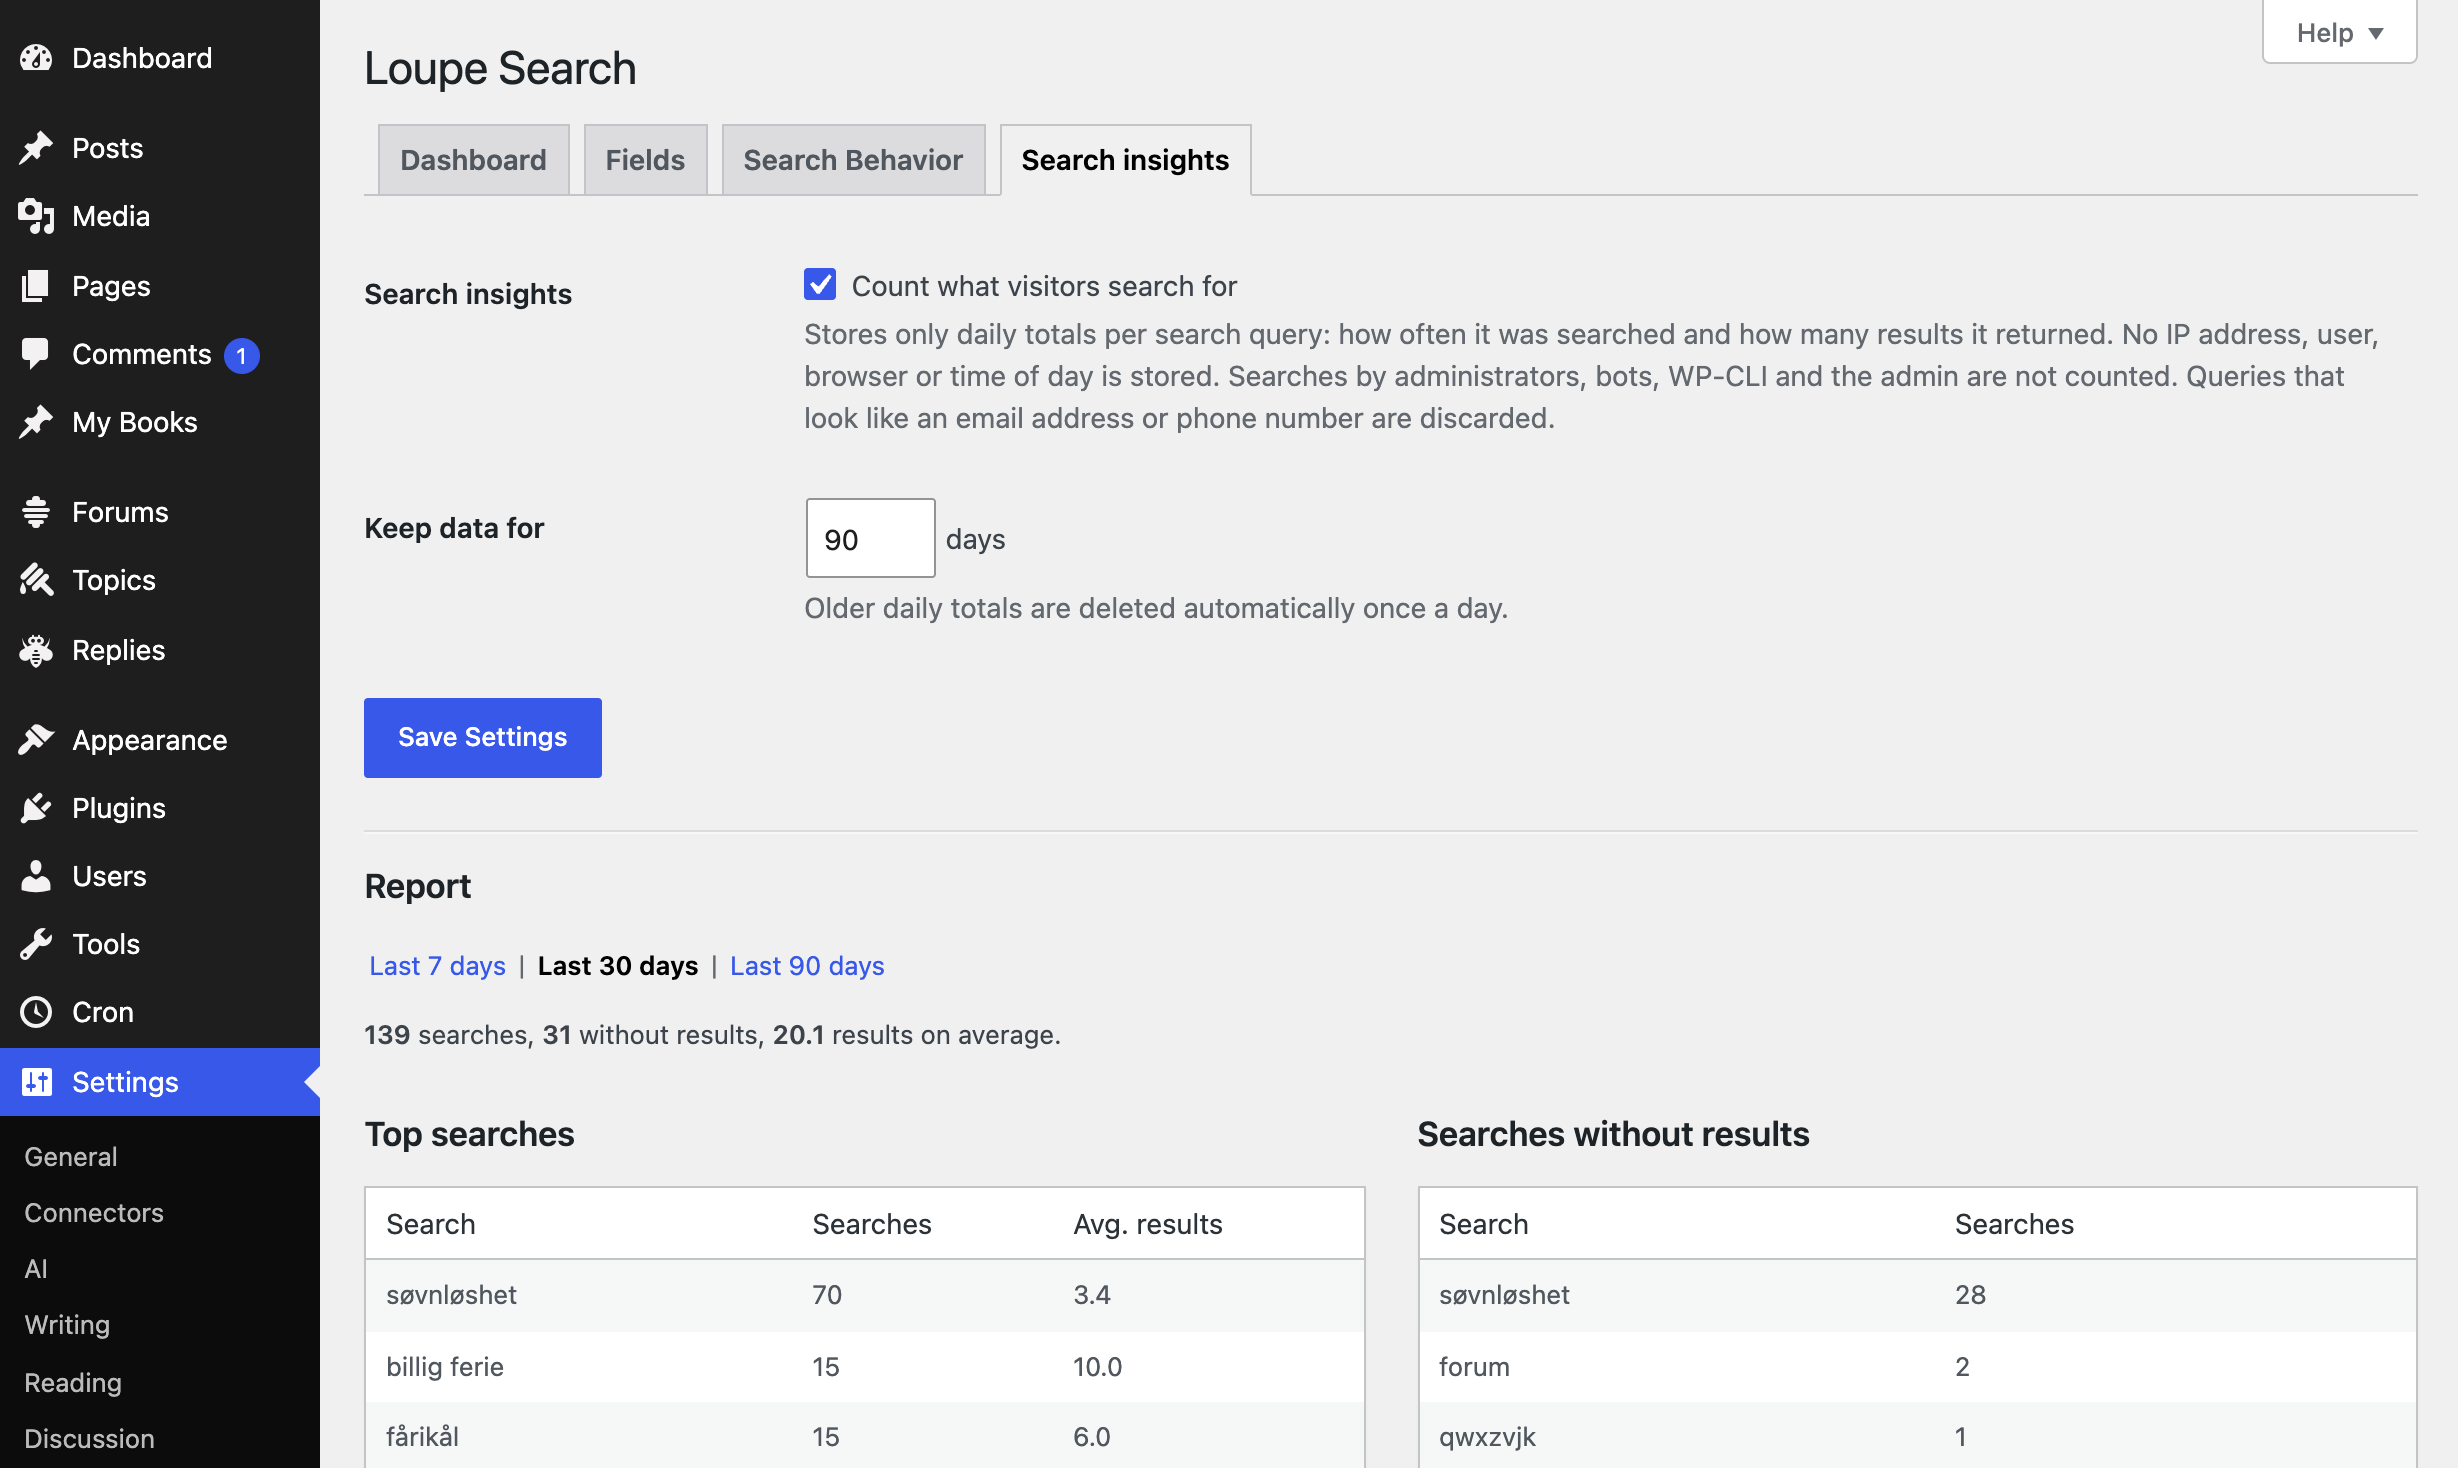
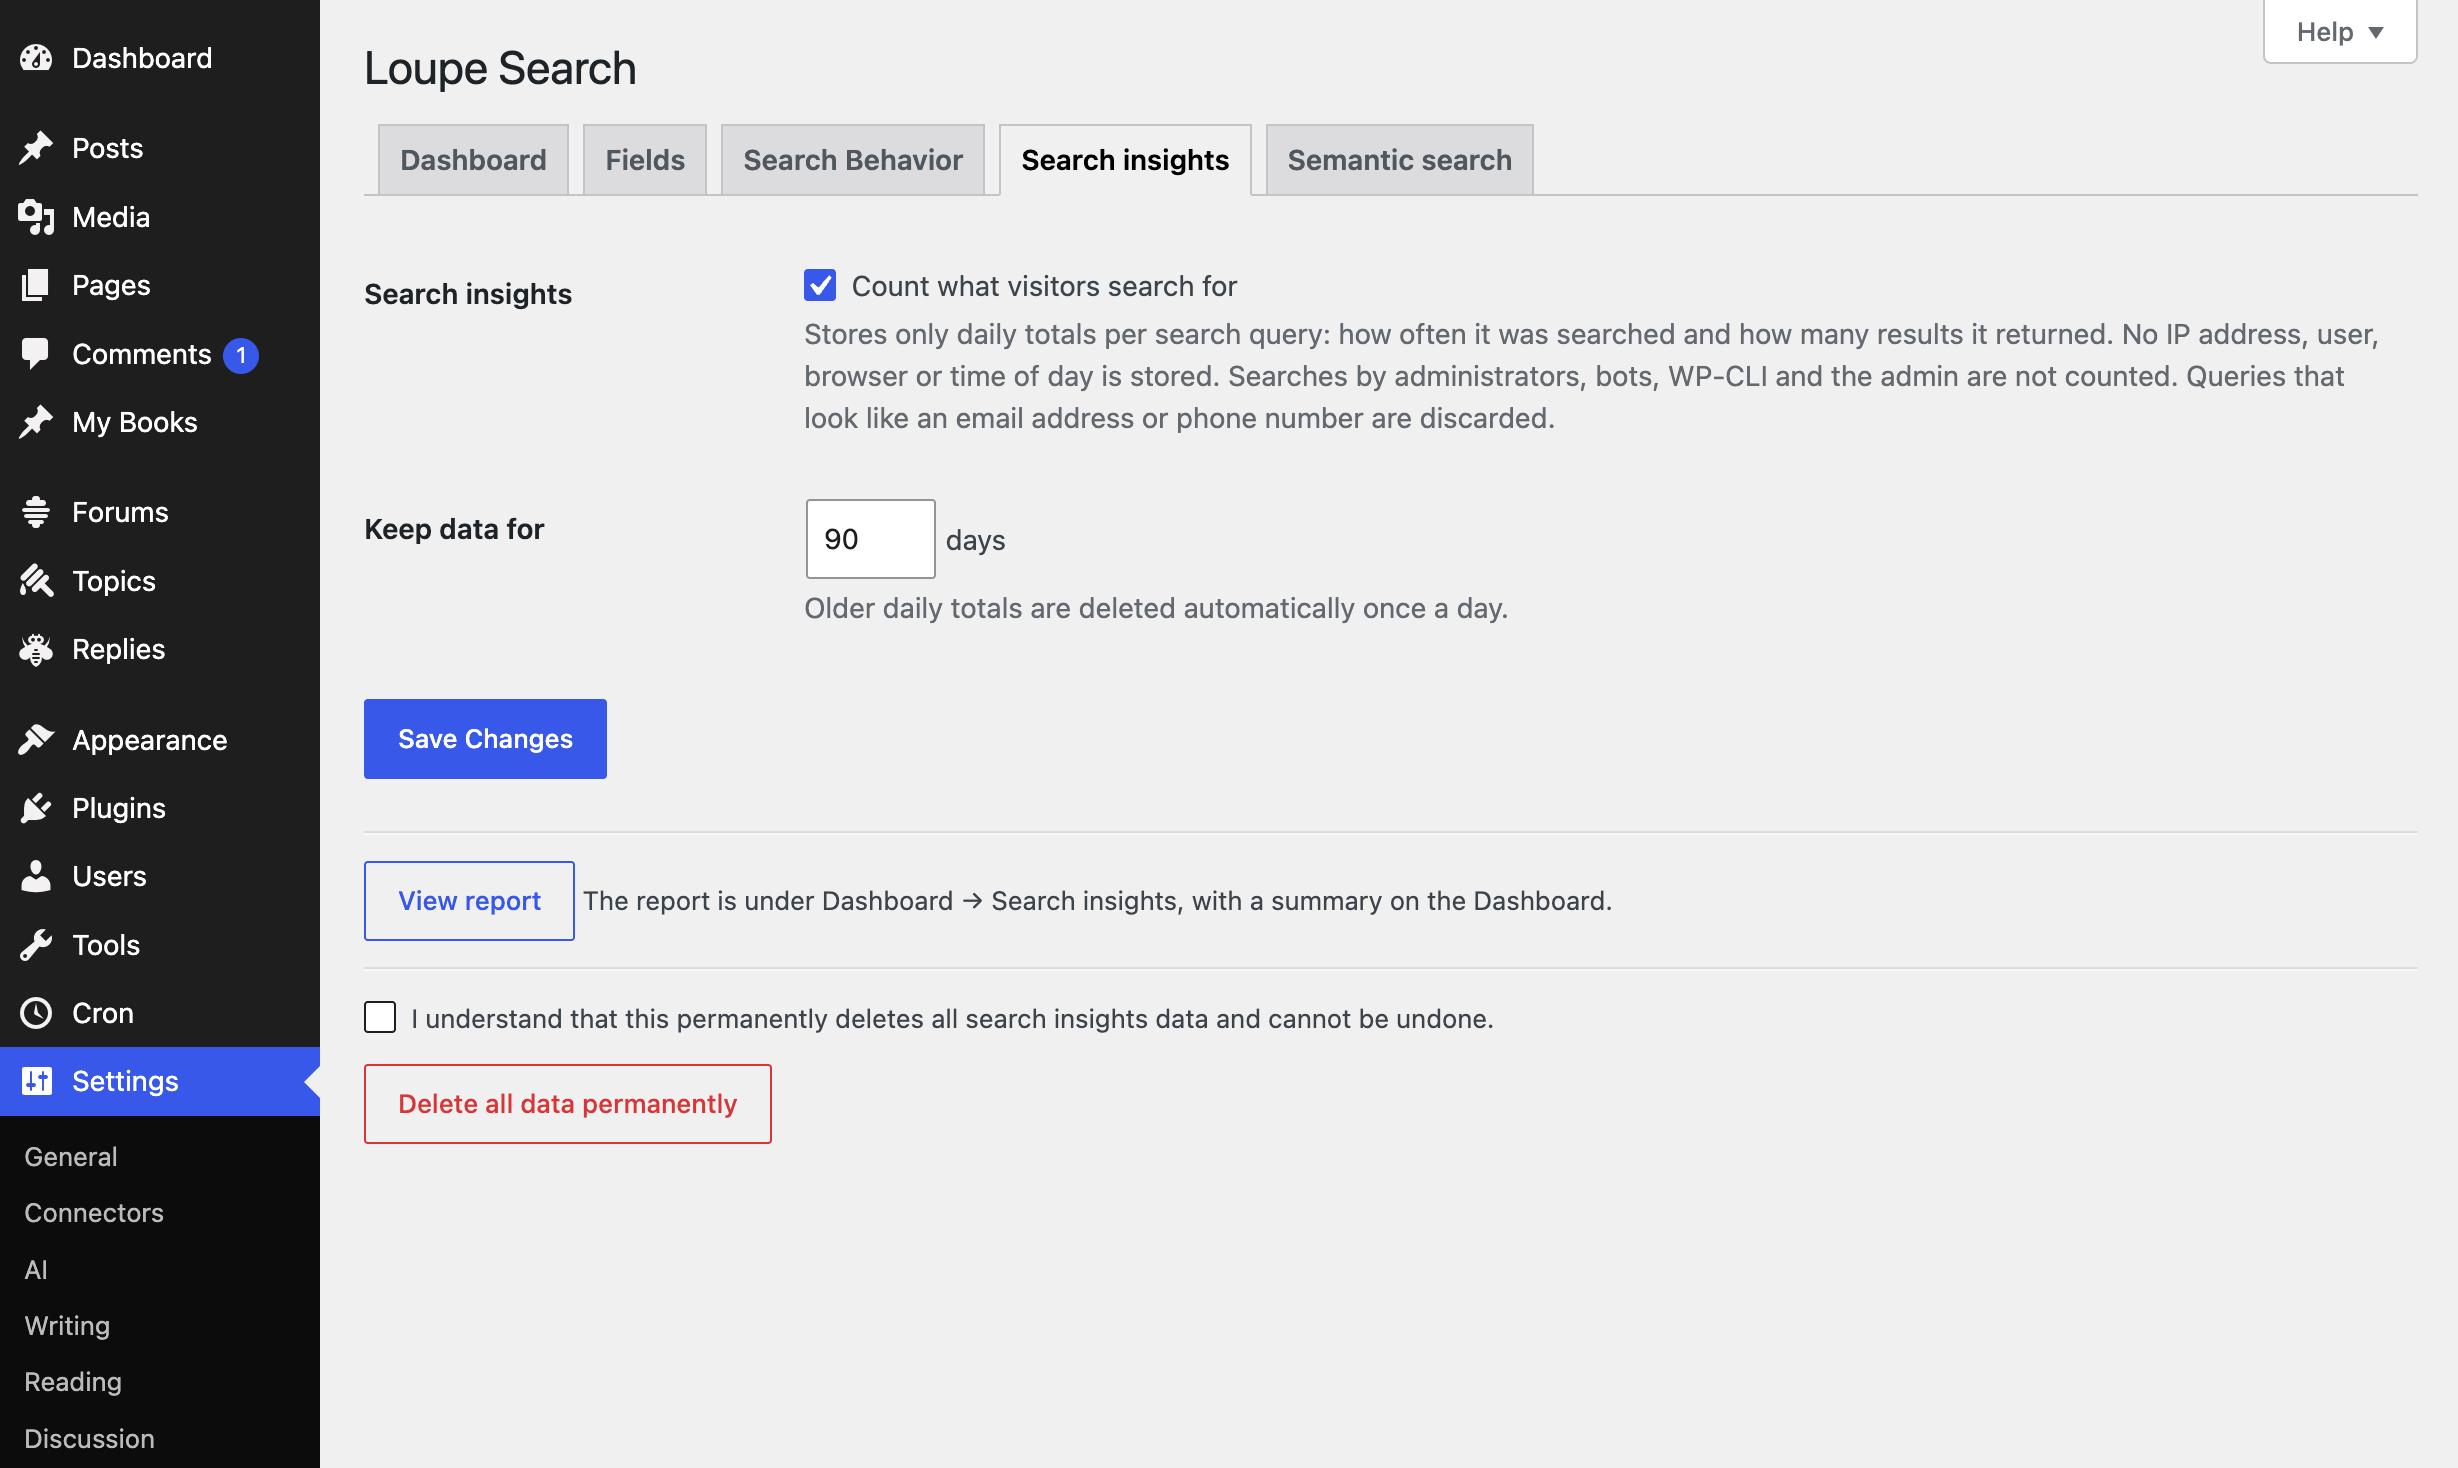
Insights: use the site date format for the custom range (1.7.3) (#94)
* Insights: use the site date format for the custom range (1.7.3)

The From/To fields were native date inputs, which always display in the
browser locale. Enhance them with core's jQuery UI Datepicker, which
WordPress localizes from Settings → General (date format, month names,
start of week). Hidden fields keep submitting Y-m-d; without JavaScript
the native inputs remain.

Also update WordPress.org screenshot 4 (insights settings tab) and add
screenshot 6 (insights report), and bump to 1.7.3.

* Insights: validate typed custom-range dates before applying

An unparseable or future date typed into a From/To field left the hidden
Y-m-d value unchanged, so Apply silently used the previous date. Parse the
visible value with the localized Datepicker format on submit, reject
invalid or future dates with a translatable validity message, and only
then sync the hidden field. Load wp-i18n and script translations.

---------

diff --git a/lib/js/insights.js b/lib/js/insights.js
@@ -1,0 +1,92 @@
+/**
+ * Search insights report: show the custom range dates in the site's date format.
+ *
+ * Native date inputs always use the browser locale. jQuery UI Datepicker is
+ * configured by WordPress core from Settings → General (date format, month
+ * names, start of week), so the visible fields use that while hidden fields
+ * keep submitting Y-m-d.
+ */
+/* global jQuery */
+( function ( $, __ ) {
+	$( function () {
+		if ( ! $.datepicker ) {
+			return;
+		}
+
+		const iso = ( date ) => $.datepicker.parseDate( 'yy-mm-dd', date );
+		const fields = [];
+
+		$( '.loupe-search-insights__range input[type="date"]' ).each(
+			function () {
+				const $input = $( this );
+				const value = $input.val();
+				const max = $input.attr( 'max' )
+					? iso( $input.attr( 'max' ) )
+					: null;
+				const $hidden = $( '<input type="hidden" />' )
+					.attr( 'name', $input.attr( 'name' ) )
+					.val( value )
+					.insertAfter( $input );
+
+				$input
+					.removeAttr( 'name' )
+					.attr( { type: 'text', autocomplete: 'off' } )
+					.val( '' )
+					.datepicker( {
+						altField: $hidden,
+						altFormat: 'yy-mm-dd',
+						maxDate: max,
+						changeMonth: true,
+						changeYear: true,
+					} )
+					.on( 'input change', function () {
+						this.setCustomValidity( '' );
+					} );
+
+				if ( value ) {
+					$input.datepicker( 'setDate', iso( value ) );
+				}
+
+				fields.push( { $input, $hidden, max } );
+			}
+		);
+
+		// Typed text does not update the hidden field when it cannot be parsed,
+		// so validate the visible value and only then sync the hidden Y-m-d.
+		$( '.loupe-search-insights__range' ).on( 'submit', function ( event ) {
+			let firstInvalid = null;
+
+			fields.forEach( ( { $input, $hidden, max } ) => {
+				const input = $input.get( 0 );
+				let date = null;
+				try {
+					date = $.datepicker.parseDate(
+						$input.datepicker( 'option', 'dateFormat' ),
+						$input.val()
+					);
+				} catch {
+					date = null;
+				}
+
+				if ( ! date || ( max && date > max ) ) {
+					input.setCustomValidity(
+						__(
+							'Enter a valid date that is not in the future.',
+							'loupe-search'
+						)
+					);
+					firstInvalid = firstInvalid || input;
+					return;
+				}
+
+				input.setCustomValidity( '' );
+				$hidden.val( $.datepicker.formatDate( 'yy-mm-dd', date ) );
+			} );
+
+			if ( firstInvalid ) {
+				event.preventDefault();
+				firstInvalid.reportValidity();
+			}
+		} );
+	} );
+} )( jQuery, window.wp && wp.i18n && wp.i18n.__ ? wp.i18n.__ : ( s ) => s );

diff --git a/lib/css/insights.css b/lib/css/insights.css
@@ -22,6 +22,117 @@
 	margin-right: 4px;
 }
 
+.loupe-search-insights__range input.hasDatepicker {
+	width: 12em;
+}
+
+/* jQuery UI Datepicker (core ships no theme), styled like wp-admin. */
+#ui-datepicker-div {
+	display: none;
+	z-index: 100 !important;
+	padding: 8px;
+	background: #fff;
+	border: 1px solid #c3c4c7;
+	border-radius: 4px;
+	box-shadow: 0 3px 6px rgba(0, 0, 0, 0.15);
+}
+
+#ui-datepicker-div .ui-datepicker-header {
+	display: flex;
+	align-items: center;
+	gap: 4px;
+	margin-bottom: 6px;
+}
+
+#ui-datepicker-div .ui-datepicker-prev,
+#ui-datepicker-div .ui-datepicker-next {
+	cursor: pointer;
+	text-decoration: none;
+	color: var(--wp-admin-theme-color, #2271b1);
+}
+
+#ui-datepicker-div .ui-datepicker-prev {
+	order: -1;
+}
+
+#ui-datepicker-div .ui-datepicker-prev .ui-icon,
+#ui-datepicker-div .ui-datepicker-next .ui-icon {
+	display: none;
+}
+
+#ui-datepicker-div .ui-datepicker-prev::before {
+	content: "\2039";
+	font-size: 20px;
+	padding: 0 6px;
+}
+
+#ui-datepicker-div .ui-datepicker-next::before {
+	content: "\203A";
+	font-size: 20px;
+	padding: 0 6px;
+}
+
+#ui-datepicker-div .ui-state-disabled {
+	cursor: default;
+	color: #a7aaad;
+}
+
+#ui-datepicker-div .ui-datepicker-title {
+	display: flex;
+	flex: 1;
+	gap: 4px;
+	justify-content: center;
+}
+
+#ui-datepicker-div .ui-datepicker-title select {
+	min-height: 28px;
+	font-size: 13px;
+}
+
+#ui-datepicker-div table {
+	border-collapse: collapse;
+}
+
+#ui-datepicker-div th {
+	padding: 4px;
+	font-weight: 600;
+	color: #50575e;
+}
+
+#ui-datepicker-div td {
+	padding: 1px;
+	text-align: center;
+}
+
+#ui-datepicker-div td a,
+#ui-datepicker-div td span {
+	display: block;
+	width: 28px;
+	line-height: 28px;
+	border-radius: 2px;
+	text-decoration: none;
+	color: #1d2327;
+}
+
+#ui-datepicker-div td a:hover,
+#ui-datepicker-div td a:focus {
+	background: #f0f0f1;
+	color: var(--wp-admin-theme-color, #2271b1);
+}
+
+#ui-datepicker-div td.ui-datepicker-today a {
+	box-shadow: inset 0 0 0 1px var(--wp-admin-theme-color, #2271b1);
+}
+
+#ui-datepicker-div td a.ui-state-active {
+	background: var(--wp-admin-theme-color, #2271b1);
+	color: #fff;
+}
+
+#ui-datepicker-div td.ui-state-disabled span {
+	color: #a7aaad;
+}
+
 .loupe-search-insights__heading {
 	display: flex;
 	flex-wrap: wrap;

diff --git a/includes/class-wp-loupe-insights.php b/includes/class-wp-loupe-insights.php
@@ -56,7 +56,8 @@ class WP_Loupe_Insights {
 	}
 
 	/**
-	 * Load the report stylesheet on the report page and the Dashboard (widget).
+	 * Load the report stylesheet on the report page and the Dashboard (widget),
+	 * and the date picker script on the report page.
 	 *
 	 * @param string $hook Current admin page hook.
 	 * @return void
@@ -66,6 +67,11 @@ class WP_Loupe_Insights {
 			return;
 		}
 		wp_enqueue_style( 'loupe-search-insights', LOUPE_SEARCH_URL . 'lib/css/insights.css', [], WP_Loupe_Utils::get_version_number() );
+		if ( 'dashboard_page_' . self::PAGE_SLUG === $hook ) {
+			// Core localizes jquery-ui-datepicker with the date format from Settings → General.
+			wp_enqueue_script( 'loupe-search-insights', LOUPE_SEARCH_URL . 'lib/js/insights.js', [ 'jquery-ui-datepicker', 'wp-i18n' ], WP_Loupe_Utils::get_version_number(), true );
+			wp_set_script_translations( 'loupe-search-insights', 'loupe-search', LOUPE_SEARCH_PATH . 'languages' );
+		}
 	}
 
 	/**

diff --git a/loupe-search.php b/loupe-search.php
@@ -10,7 +10,7 @@
  * Plugin Name:       Loupe Search
  * Plugin URI:        https://github.com/soderlind/loupe-search
  * Description:       Fast, index-backed WordPress search with typo tolerance, phrase matching, exclusions, custom post types, real-time indexing, and a developer-friendly REST API.
- * Version:           1.7.2
+ * Version:           1.7.3
  * Author:            Per Soderlind
  * Author URI:        https://soderlind.no
  * License:           GPL-2.0+

diff --git a/CHANGELOG.md b/CHANGELOG.md
@@ -7,6 +7,16 @@ and this project adheres to [Semantic Versioning](https://semver.org/spec/v2.0.0
 
 ## [Unreleased]
 
+## [1.7.3] - 2026-11-18
+
+### Fixed
+
+- Search insights: the From and To dates on the report page now use the date format from Settings → General instead of the browser's locale, with a date picker that follows the site's language and start of week. Without JavaScript the browser's own date fields are used as before. Typed dates are checked before the report is applied, so an invalid or future date shows a message instead of silently using the previous date.
+
+### Changed
+
+- WordPress.org screenshots: updated screenshot 4 (Search insights settings tab) and added screenshot 6 (Search insights report).
+
 ## [1.7.2] - 2026-11-17
 
 ### Changed
